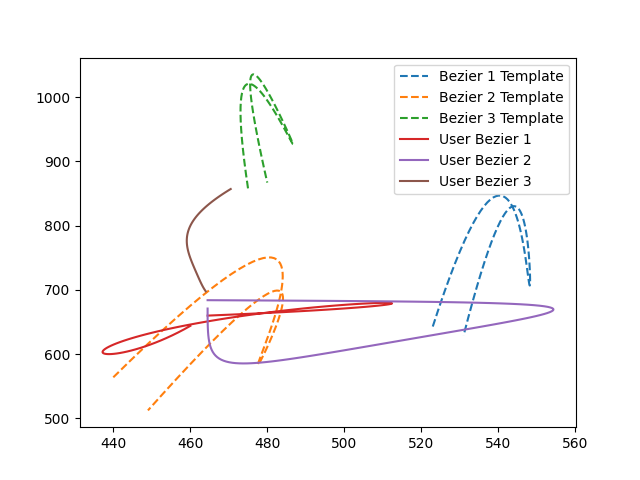
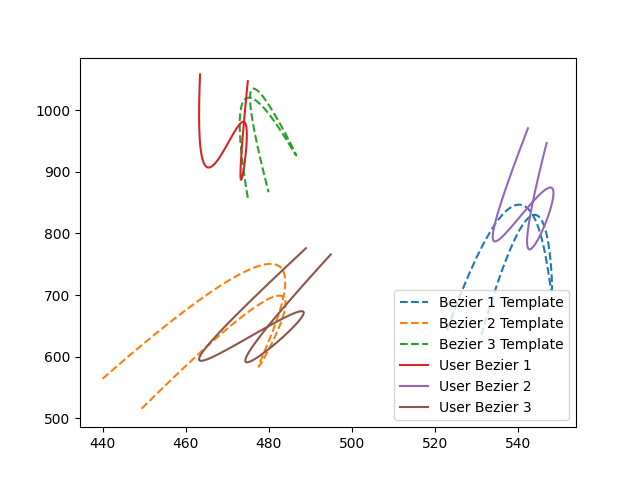
Recognise W added and Tests are passing

diff --git a/Backend/sign_w/sign_w.py b/Backend/sign_w/sign_w.py
@@ -15,7 +15,7 @@ from recognition import timestamp_duration_valid, compare_sequences
 def fit_three_beziers_for_w():
     """
     This function fits three quartic Bézier curves to the given data and saves them as templates for later comparison.
-    Used only once for saving templates of the sign w. This is done to compare the accuracy of three Bezier curves as
+    Used only once for saving templates of the sign w. This is done to compare the accuracy of three Bézier curves as
     compared to only one.
     """
     # defines filepath; function needs to be run from root directory
@@ -99,17 +99,17 @@ def fit_bezier_for_w_single_curve():
     # calculates and returns full curves
     bezier_curve = return_quartic_bezier_curve(bezier_control)
 
-    # transforms into numpy arrays
-    bezier_curve_np = np.array(bezier_curve)
-
     # Code below plots fitted Bézier curves
+    # transforms into numpy arrays
+    # bezier_curve_np = np.array(bezier_curve)
+
     # plots Bézier curve
     # plt.figure(figsize=(6, 6))
     # plt.plot(bezier_curve_np[:, 0], bezier_curve_np[:, 1], label='Bezier 1')
     # plt.scatter(bezier_curve_np[:, 0], bezier_curve_np[:, 1], s=10)
     #
     # # setting up the title and labels
-    # plt.title('Bezier Curves')
+    # plt.title('Bézier curves')
     # plt.xlabel('X Coordinate')
     # plt.ylabel('Y Coordinate')
     #

diff --git a/Backend/extraction.py b/Backend/extraction.py
@@ -102,7 +102,7 @@ def split_touch_locations_three_curves(locations: List[List[float]]) \
     curve1, curve2, curve3 = [], [], []
     curves = [curve1, curve2, curve3]
 
-    threshold = 10
+    threshold = 25
 
     for point in locations:
         # starts with first curve
